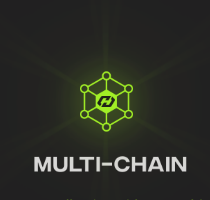
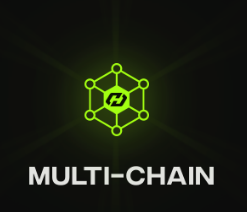
complete MultiChainSection

diff --git a/app/components/sections/MultiChainSection.tsx b/app/components/sections/MultiChainSection.tsx
@@ -1,0 +1,26 @@
+import React from 'react';
+import Image from 'next/image'
+
+const MultiChainSection = () => {
+  return (
+    <section>
+      <div className="max-w-[1200px] m-auto">
+        <div className="flex flex-col items-center mt-[100px]">
+          <Image
+            src="/multi-chain-mark.png"
+            alt="arrow right"
+            className="ml-[15px]"
+            width={369}
+            height={372}
+            priority
+            style={{ objectFit: "contain" }}
+          />
+          <div className="text-electric-lime text-[20px] whitespace-pre-line text-center">{`Unleash the full potential of your NFT collection with our multi-chain marketplace - accessible,
+          versatile, and always adapting to your needs.`}</div>
+        </div>
+      </div>
+    </section>
+  );
+};
+
+export default MultiChainSection;

diff --git a/app/page.tsx b/app/page.tsx
@@ -1,6 +1,7 @@
 import MainLayout from "./components/layouts/MainLayout";
 import GamingPlatformSection from "./components/sections/GamingPlatformSection";
 import LandingHeroSection from "./components/sections/LandingHeroSection";
+import MultiChainSection from "./components/sections/MultiChainSection";
 import NFTMarketPlaceSection from "./components/sections/NFTMarketPlaceSection";
 
 export default function Home() {
@@ -9,6 +10,7 @@ export default function Home() {
       <LandingHeroSection />
       <NFTMarketPlaceSection />
       <GamingPlatformSection />
+      <MultiChainSection />
     </MainLayout>
   )
 }
